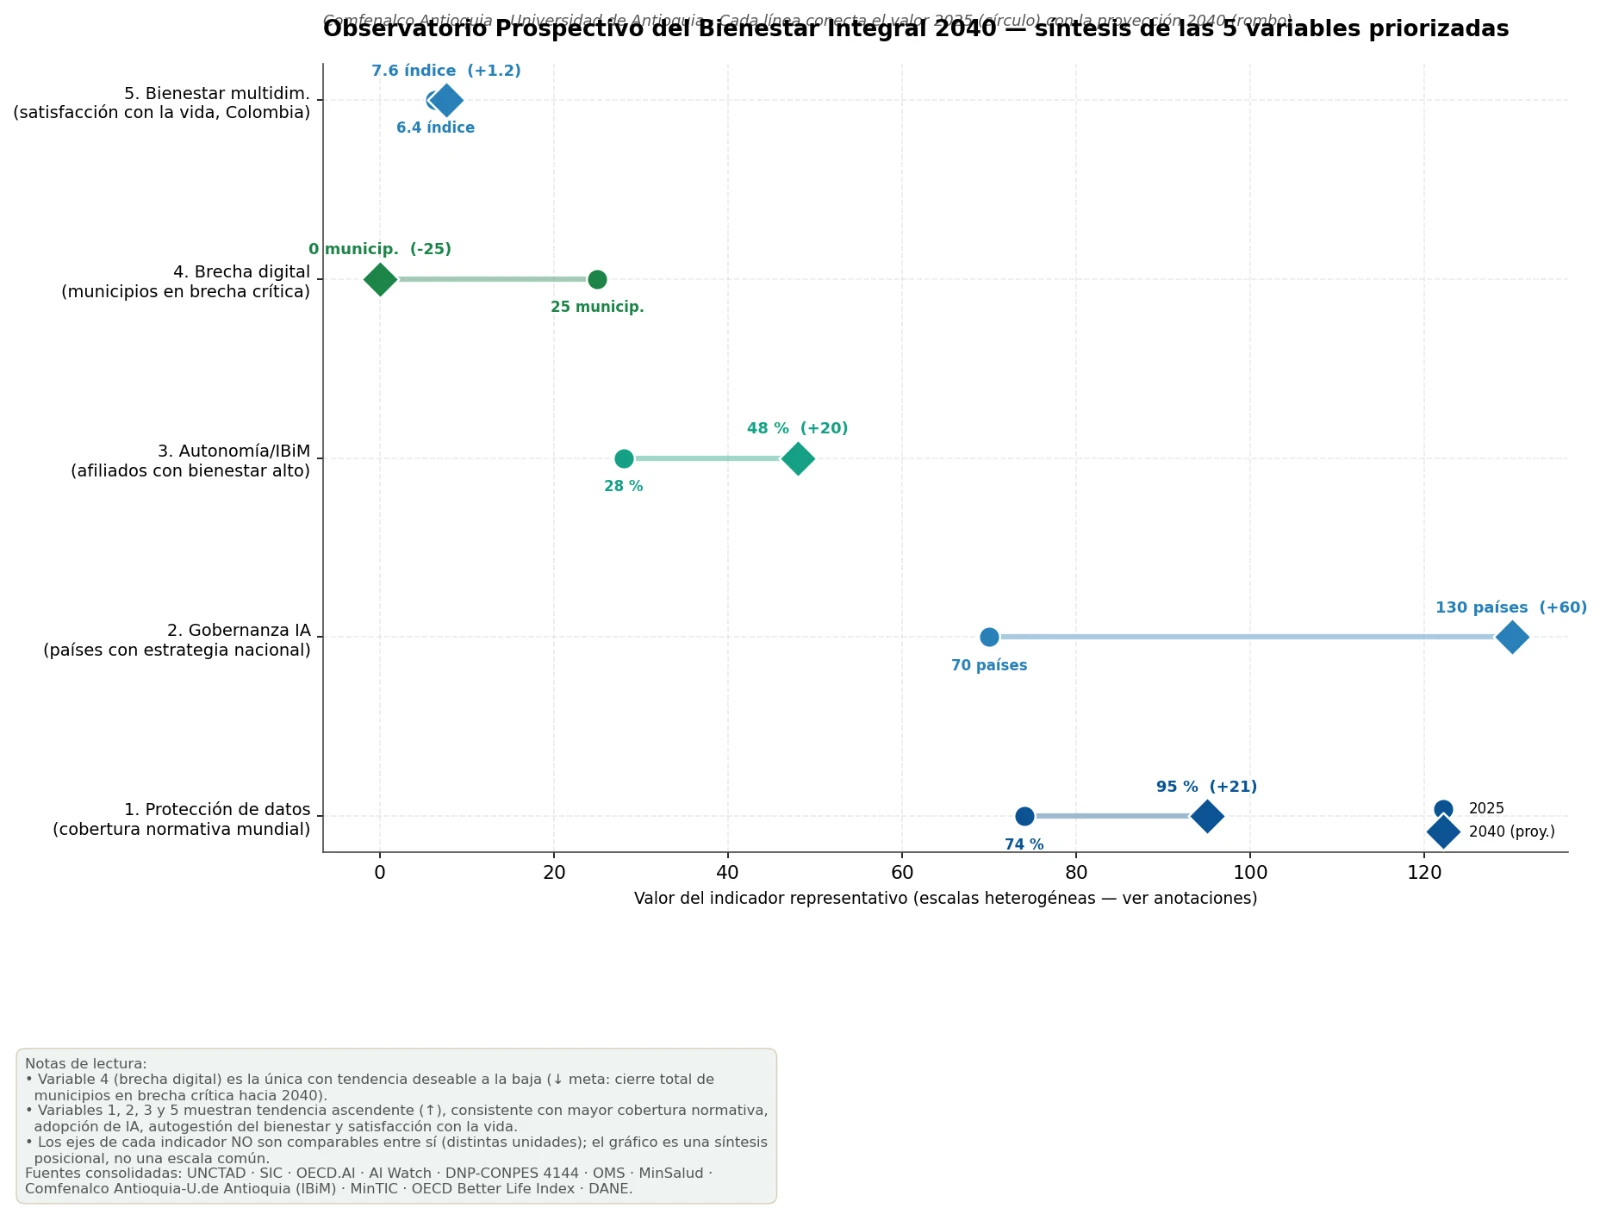
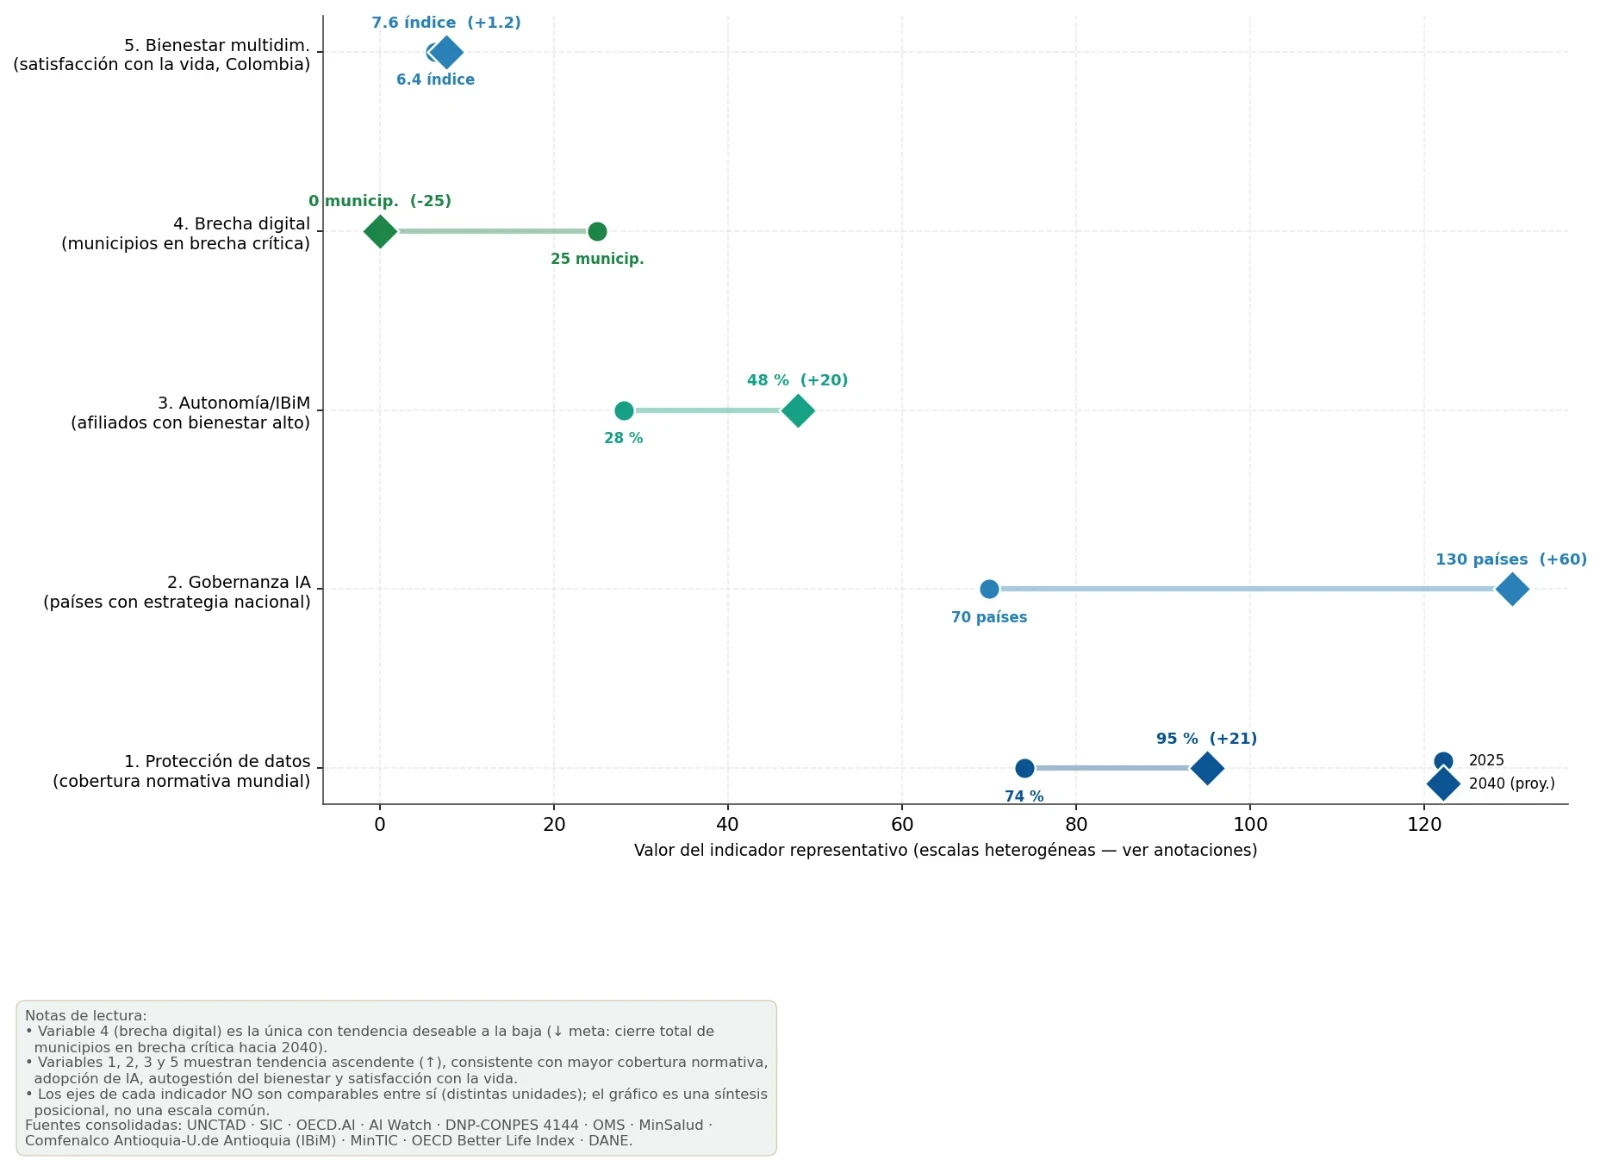
Calidad vida digital: subtitulo, descripcion y guia de uso del Word encima del visualizador, como los demas indicadores

diff --git a/src/modules/ModuloVidaDigital/ModuloVidaDigital.jsx b/src/modules/ModuloVidaDigital/ModuloVidaDigital.jsx
@@ -1,8 +1,10 @@
 /**
  * ModuloVidaDigital — Indicador "Calidad vida digital".
  *
- * 0.45.0: el título del Word va como subtítulo bajo el h1 (DescripcionIndicador) y la
- * ficha técnica de la figura (años, países) pasa DEBAJO del panel gráfico.
+ * 0.53.0: la descripción y la guía "Cómo usar el visualizador" del Word van ENCIMA
+ * de la gráfica (componente compartido DescripcionIndicador), como en los otros
+ * cuatro indicadores; el título del Word es el subtítulo bajo el h1 y la ficha
+ * técnica de la figura (años, países) va DEBAJO del panel gráfico.
  *
  * Misma vista en banda completa de los demás indicadores, con DOS
  * gráficas del cuaderno "App_Vida_Digital" alternadas por un conmutador
@@ -21,21 +23,19 @@
  * El tope de selección vive en MAXIMO_PAISES_DQL (el cliente lo bajó de
  * 4 a 3 el 2026-08-14).
  *
- * El panel del texto de análisis está DESACTIVADO a pedido del cliente
- * (2026-08-14): aún no se define si el indicador llevará texto. Todo su
- * código permanece comentado en los bloques marcados como "ANÁLISIS
- * DESACTIVADO" (imports, estado, efecto, render y tarjeta); para
- * reactivarlo basta descomentarlos — leería el documento propio
- * `calidad-vida-digital.docx` con el sondeo único de siempre.
+ * El texto viene del documento propio del indicador
+ * (`calidad-vida-digital.docx`, creado en 0.53.0 con la plantilla de los
+ * demás Word: título, descripción y guía). El antiguo panel "Análisis" bajo
+ * la gráfica, que el cliente dejó en pausa en 2026-08-14, se retiró: el
+ * texto vive ahora arriba, en DescripcionIndicador.
  */
 import { useEffect, useMemo, useState } from 'react';
 import Cargador from '../../components/Cargador/Cargador.jsx';
+import DescripcionIndicador from '../../components/DescripcionIndicador/DescripcionIndicador.jsx';
 import GraficaOcde from '../../components/GraficaOcde/GraficaOcde.jsx';
 import SelectorCampo from '../../components/SelectorCampo/SelectorCampo.jsx';
 import { rutaExcelIndicador } from '../../data/indicadores.js';
-/* ANÁLISIS DESACTIVADO (cliente por definir):
-import { ESTADO_TEXTO, obtenerTextoIndicador } from '../../services/docxService.js';
-*/
+import { obtenerTextoIndicador } from '../../services/docxService.js';
 import {
   ESCENARIOS_NOMBRADOS_DQL,
   MAXIMO_PAISES_DQL,
@@ -118,13 +118,11 @@ const ESTADO_DATOS = {
   ERROR: 'error',
 };
 
-/* ANÁLISIS DESACTIVADO (cliente por definir) — estados de la carga del
-   texto, además de los del servicio de textos:
+/* Estados de la carga del texto (además de los del servicio de textos). */
 const ESTADO_CARGA_TEXTO = {
   CARGANDO: 'cargando',
   ERROR: 'error',
 };
-*/
 
 function ModuloVidaDigital({ indicadorSeccion, config }) {
   /* ── Base de datos de la figura ────────────────────────────────── */
@@ -142,10 +140,9 @@ function ModuloVidaDigital({ indicadorSeccion, config }) {
   /* El cuaderno abre el comparador con los límites apagados. */
   const [mostrarLimites, setMostrarLimites] = useState(false);
 
-  /* ── Texto del indicador — ANÁLISIS DESACTIVADO (cliente por definir):
+  /* ── Texto del indicador ───────────────────────────────────────── */
   const [texto, setTexto] = useState({ estado: ESTADO_CARGA_TEXTO.CARGANDO, titulo: null, parrafos: [] });
   const [reintentosTexto, setReintentosTexto] = useState(0);
-  */
 
   useEffect(() => {
     let vigente = true;
@@ -175,9 +172,9 @@ function ModuloVidaDigital({ indicadorSeccion, config }) {
     };
   }, [indicadorSeccion.slug, config.archivoExcel, reintentosDatos]);
 
-  /* ANÁLISIS DESACTIVADO (cliente por definir) — lectura del documento;
-     el módulo se remonta por indicador (key en la App): el efecto solo se
-     re-dispara al reintentar, y el botón repone el estado "cargando".
+  /* Lectura del documento; el módulo se remonta por indicador (key en la
+     App): el efecto solo se re-dispara al reintentar, y el botón repone el
+     estado "cargando". */
   useEffect(() => {
     let vigente = true;
     obtenerTextoIndicador(indicadorSeccion.slug, config.archivoTexto)
@@ -191,7 +188,6 @@ function ModuloVidaDigital({ indicadorSeccion, config }) {
       vigente = false;
     };
   }, [indicadorSeccion.slug, config.archivoTexto, reintentosTexto]);
-  */
 
   /* Países válidos en el orden del panel (ranking del cuaderno). */
   const paisesActivos = useMemo(
@@ -463,55 +459,6 @@ function ModuloVidaDigital({ indicadorSeccion, config }) {
     );
   };
 
-  /* ── Panel del texto según el estado del documento ───────────────
-     ANÁLISIS DESACTIVADO (cliente por definir):
-  const renderizarPanelTexto = () => {
-    if (texto.estado === ESTADO_CARGA_TEXTO.CARGANDO) {
-      return <Cargador mensaje="Leyendo el documento del análisis…" tamano="mediano" enBloque />;
-    }
-    if (texto.estado === ESTADO_CARGA_TEXTO.ERROR) {
-      return (
-        <div className="modulo-vida-digital__aviso" role="alert">
-          <p>No fue posible leer el documento del análisis.</p>
-          <button
-            type="button"
-            className="modulo-vida-digital__reintentar"
-            onClick={() => {
-              setTexto({ estado: ESTADO_CARGA_TEXTO.CARGANDO, titulo: null, parrafos: [] });
-              setReintentosTexto((total) => total + 1);
-            }}
-          >
-            Reintentar
-          </button>
-        </div>
-      );
-    }
-    if (texto.estado === ESTADO_TEXTO.EN_PREPARACION) {
-      return (
-        <p className="modulo-vida-digital__aviso" role="status">
-          Contenido en preparación para este indicador.
-        </p>
-      );
-    }
-    return (
-      <>
-        {texto.titulo && <h3 className="modulo-vida-digital__texto-titulo">{texto.titulo}</h3>}
-        <div
-          className="modulo-vida-digital__texto-contenido"
-          role="region"
-          aria-label={`Análisis del indicador ${indicadorSeccion.etiqueta}`}
-          tabIndex={0}
-        >
-          {texto.parrafos.map((parrafo, indice) => (
-            <p key={indice} className="modulo-vida-digital__parrafo">
-              {parrafo}
-            </p>
-          ))}
-        </div>
-      </>
-    );
-  };
-  FIN DEL ANÁLISIS DESACTIVADO */
 
   return (
     <section className="modulo-vida-digital" aria-labelledby="titulo-vida-digital">
@@ -520,6 +467,17 @@ function ModuloVidaDigital({ indicadorSeccion, config }) {
           {indicadorSeccion.etiqueta}
         </h1>
       </header>
+
+      {/* Descripción y guía de uso del Word, ENCIMA del visualizador (0.53.0) */}
+      <DescripcionIndicador
+        texto={texto}
+        estados={ESTADO_CARGA_TEXTO}
+        nombre={indicadorSeccion.etiqueta}
+        onReintentar={() => {
+          setTexto({ estado: ESTADO_CARGA_TEXTO.CARGANDO, titulo: null, parrafos: [] });
+          setReintentosTexto((total) => total + 1);
+        }}
+      />
 
       <div className="modulo-vida-digital__contenido">
         <article className="modulo-vida-digital__panel modulo-vida-digital__panel--grafica">
@@ -542,14 +500,6 @@ function ModuloVidaDigital({ indicadorSeccion, config }) {
           </p>
         )}
 
-        {/* ANÁLISIS DESACTIVADO (cliente por definir si llevará texto):
-
-        <article className="modulo-vida-digital__panel modulo-vida-digital__panel--texto">
-          <h2 className="modulo-vida-digital__subtitulo">Análisis</h2>
-          {renderizarPanelTexto()}
-        </article>
-
-        */}
       </div>
     </section>
   );

diff --git a/src/modules/ModuloVidaDigital/modulo-vida-digital.css b/src/modules/ModuloVidaDigital/modulo-vida-digital.css
@@ -207,35 +207,6 @@
    llevará texto); estos estilos se conservan para su reactivación, que
    consiste en descomentar los bloques "ANÁLISIS DESACTIVADO" del JSX. */
 
-.modulo-vida-digital__texto-titulo {
-  font-size: 1.02rem;
-  line-height: 1.4;
-  margin-bottom: 0.75rem;
-}
-
-/* Cuerpo de lectura algo mayor que el texto de interfaz, con la barra
-   fina de marca del portal para señalar que hay más contenido. */
-.modulo-vida-digital__texto-contenido {
-  padding-right: 0.75rem;
-  scrollbar-width: thin;
-  scrollbar-color: var(--color-verde-agua) transparent;
-}
-
-.modulo-vida-digital__texto-contenido:focus-visible {
-  outline: 3px solid var(--color-verde-oscuro);
-  outline-offset: 2px;
-}
-
-.modulo-vida-digital__parrafo {
-  font-size: 1.0625rem;
-  line-height: 1.75;
-  color: var(--color-texto);
-}
-
-.modulo-vida-digital__parrafo + .modulo-vida-digital__parrafo {
-  margin-top: 0.9rem;
-}
-
 /* ── Avisos y reintento ──────────────────────────────────────────── */
 
 .modulo-vida-digital__aviso {
@@ -286,8 +257,4 @@
   /* El cuerpo del texto se desplaza dentro de su tarjeta, con la misma
      altura contenida que los demás indicadores; en móvil fluye completo
      para no anidar desplazamientos táctiles. */
-  .modulo-vida-digital__texto-contenido {
-    max-height: 416px;
-    overflow-y: auto;
   }
-}

diff --git a/src/modules/ModuloHiperPersonalizacion/ModuloHiperPersonalizacion.jsx b/src/modules/ModuloHiperPersonalizacion/ModuloHiperPersonalizacion.jsx
@@ -41,6 +41,10 @@ import figura12 from '../../assets/hiper-personalizacion/figura-12.webp';
 import figura13 from '../../assets/hiper-personalizacion/figura-13.webp';
 import figura14 from '../../assets/hiper-personalizacion/figura-14.webp';
 import figura15 from '../../assets/hiper-personalizacion/figura-15.webp';
+/* OJO 0.52.1: la figura 16 se RECORTÓ por arriba (48 px) para quitar el título
+   interno del gráfico, que traía dos frases superpuestas en el Word; el eje
+   vertical y el margen superior se conservan. La figura 18 (0.52.2) lleva su
+   título interno BORRADO en blanco (filas 0–41) y un recorte leve de 32 px. */
 import figura16 from '../../assets/hiper-personalizacion/figura-16.webp';
 import figura17 from '../../assets/hiper-personalizacion/figura-17.webp';
 import figura18 from '../../assets/hiper-personalizacion/figura-18.webp';

diff --git a/CHANGELOG.md b/CHANGELOG.md
@@ -4,6 +4,40 @@ Registro de tecnologías, plugins y versiones incorporadas al proyecto.
 El formato sigue las convenciones de [Keep a Changelog](https://keepachangelog.com/es/)
 y el versionado de [SemVer](https://semver.org/lang/es/).
 
+## [0.53.0] — 2026-09-23
+
+### Agregado
+- **Calidad vida digital con subtítulo, descripción y guía flotante** (petición del cliente: era el único
+  indicador sin la pieza `DescripcionIndicador` de 0.43.0/0.45.0). Se creó el Word propio
+  `public/data/indicadores/calidad-vida-digital/textos/calidad-vida-digital.docx` con la misma plantilla de
+  los otros cuatro (título Heading1 + descripción + "Cómo usar el visualizador." en negrita; generado
+  desde el de Desempeño ambiental con el ZIP propio, scratchpad docx/crear-vida-digital.mjs) y los textos
+  ya redactados para el DQL en 0.43.0: subtítulo "Calidad de vida digital: el bienestar también se juega en
+  línea", descripción (asequibilidad y calidad de internet, infraestructura, seguridad y gobierno
+  electrónicos; 37 países y promedio OCDE hasta 2030) y guía en tres pasos (Trayectoria y escenarios /
+  Comparador por escenario / cursor). Precalculado generado (1 KB). `ModuloVidaDigital` monta
+  `DescripcionIndicador` bajo el h1 (misma carga con docxService, Reintentar) y se RETIRÓ el código
+  comentado del antiguo panel "Análisis" (JSX y CSS), que el cliente había dejado en pausa el 2026-08-14.
+  Verificado a 1280 (botón 380×92 px a la derecha, globo con 3 pasos) y 375 sin scroll horizontal.
+
+## [0.52.2] — 2026-09-23
+
+### Corregido
+- **Hiper-personalización — Figura 18 sin el título superpuesto** (petición del cliente): la matriz de
+  intensidad traía en la imagen un título y un subtítulo montados. Esta vez el título se BORRÓ pintando
+  de blanco la franja superior (filas 0–41, fondo blanco puro) y se aplicó solo un recorte leve de 32 px,
+  de modo que la matriz y la barra de color conservan margen encima; 1600×766 → 1600×734 px, 94 → 82 KB.
+  Rótulo y nota del portal sin cambios.
+
+## [0.52.1] — 2026-09-23
+
+### Corregido
+- **Hiper-personalización — Figura 16 sin el título superpuesto** (petición del cliente): el gráfico de
+  síntesis de las cinco variables traía dentro de la imagen un título y un subtítulo montados uno
+  sobre otro. Se recortó la franja superior de la imagen (48 px: el texto ocupaba las filas 14–40 y el
+  eje vertical empieza en la 63), conservando el eje completo y unos milímetros de margen encima;
+  1600×1208 → 1600×1160 px, 92 → 78 KB. El rótulo "Figura 16." y su nota en el portal no cambian.
+
 ## [0.52.0] — 2026-09-23
 
 ### Cambiado
